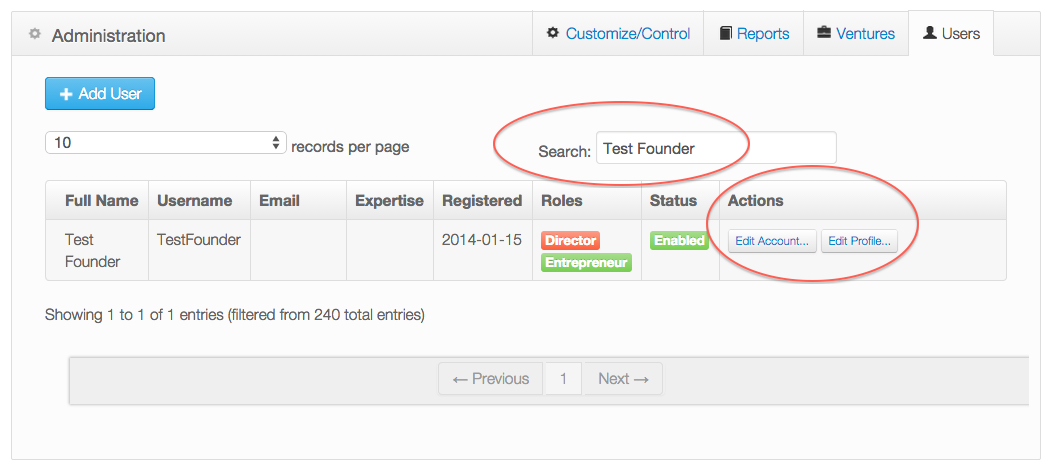
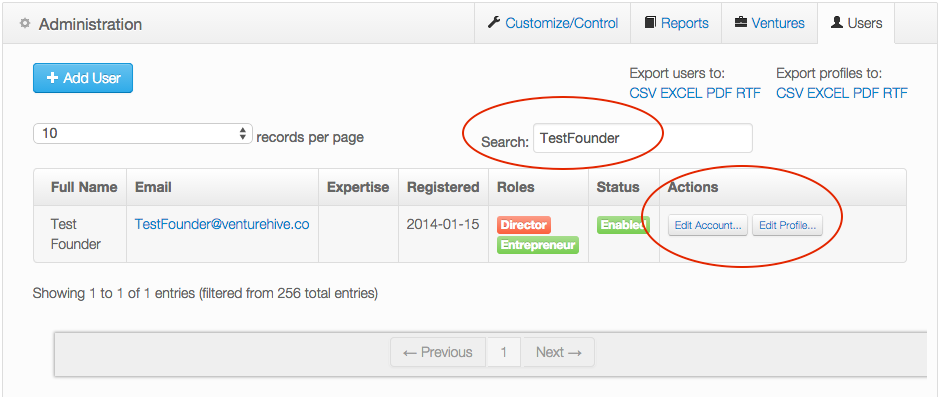
changing 'username' to 'email' and providing new user admin screen grab

diff --git a/beekeeper/user.md b/beekeeper/user.md
@@ -12,7 +12,7 @@ You are encouraged to update your user account and profile information by clicki
 
 | Edit Account Fields            | Edit Profile Fields                                        |
 |:------------------------------:|:----------------------------------------------------------:|
-| Username, Password<br><br> <font size="-2">You are permitted to change your account username and your password only unless you have been granted an administrator <a href="#Roles">role</a>.</font>    | First Name, Last Name, Email Address,  Phone, Profile Picture, Gender, Website, Twitter URL, LinkedIn URL, Facebook URL, Bio, Interests, How did you hear about us?, Birthday, Areas of Expertise |
+| Email, Password<br><br> <font size="-2">You are permitted to change your account email and your password only unless you have been granted an administrator <a href="#Roles">role</a>.</font>    | First Name, Last Name, Phone, Profile Picture, Gender, Website, Twitter URL, LinkedIn URL, Facebook URL, Bio, Interests, How did you hear about us?, Birthday, Areas of Expertise |
 
 # Manage Content
 
